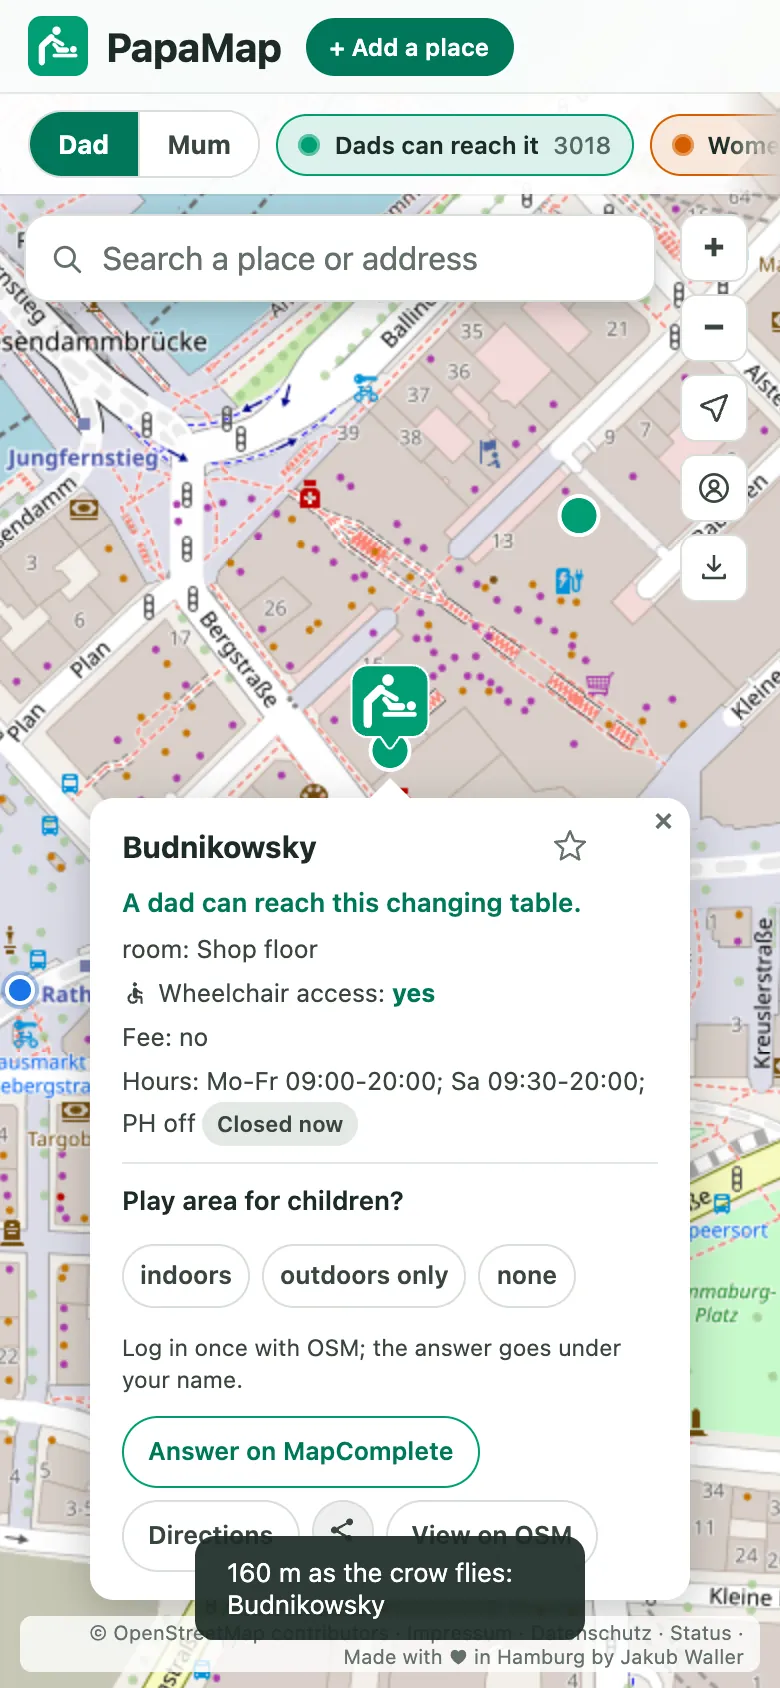
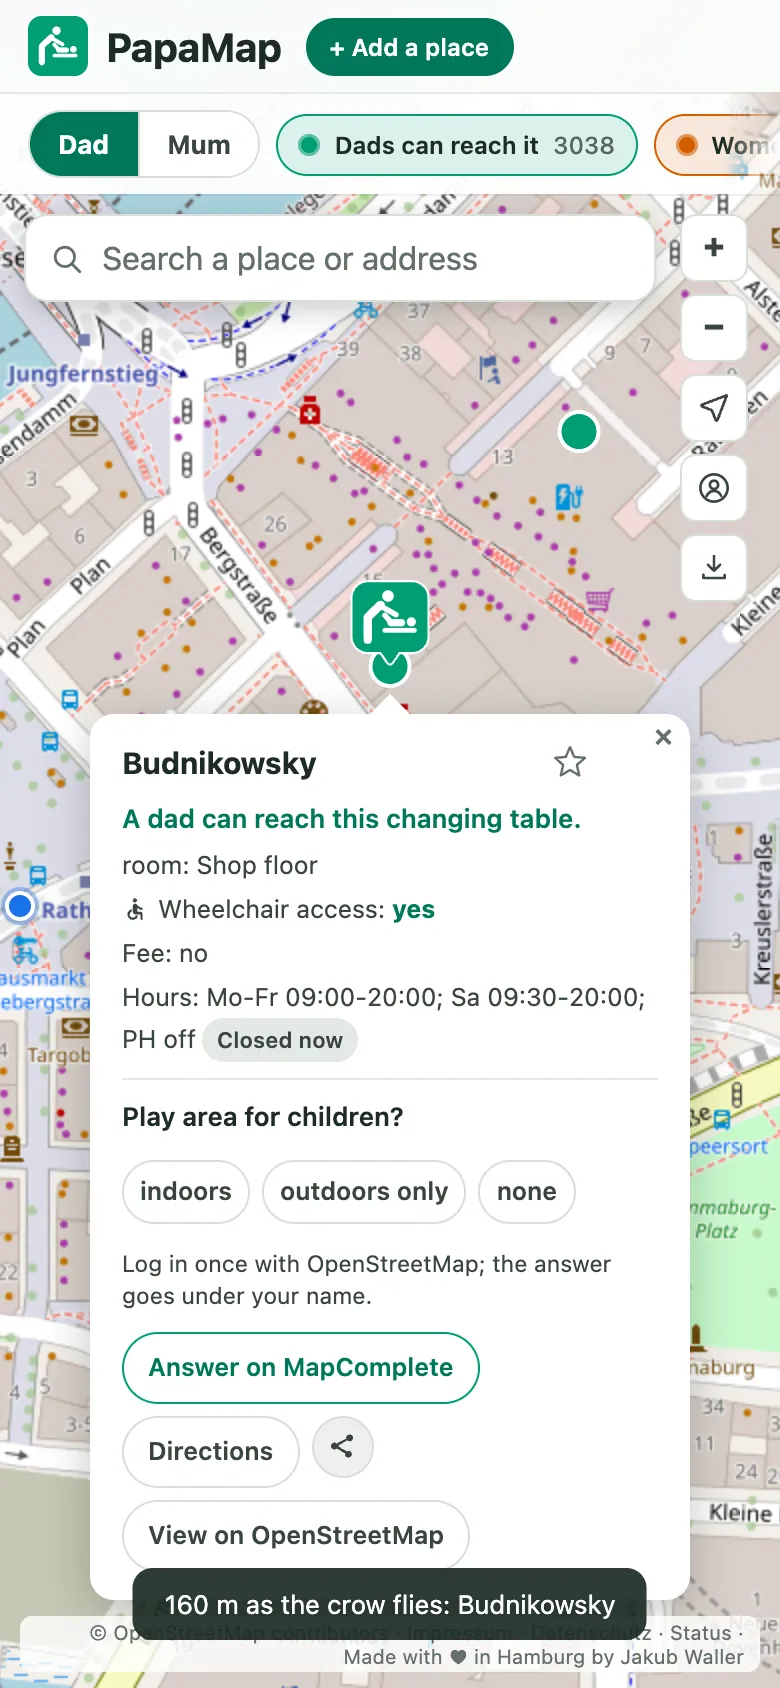
Install page images: reshot for 1.3.1 (#266)
* Install page images: reshot for 1.3.1 (darker buttons, OpenStreetMap written out, intro link)

Same six shots per language, reshot from main with
shoot-store-screenshots.mjs --canvas web, so the page shows the app the
1.3.1 store screenshots show.

* Store shot 6 on phones: the subline names high chairs

The phone and Play chip bar is too narrow to show the high-chair chip next
to wheelchair and play corner, and wheelchair stays the one shown, so the
subline says it instead: "High chairs too." / "Auch Hochstühle."

* English install page: the My PapaMap alt names Germany, as the shot shows

diff --git a/web/app-en.html b/web/app-en.html
@@ -329,7 +329,7 @@
     </ul>
   </div>
   <div class="media">
-    <img class="shot" src="img/app/me-en.webp" width="780" height="1688" loading="lazy" decoding="async" alt="“My PapaMap”: how many changing tables Hamburg has and how many have their room recorded, the OpenStreetMap login and the places you saved.">
+    <img class="shot" src="img/app/me-en.webp" width="780" height="1688" loading="lazy" decoding="async" alt="“My PapaMap”: how many changing tables Germany has and how many have their room recorded, the OpenStreetMap login and the places you saved.">
   </div>
 </article>
 </section>

diff --git a/docs/store-screenshots/DESIGN.md b/docs/store-screenshots/DESIGN.md
@@ -35,7 +35,7 @@ The first three show in search results, so map, nearest and the grey-pin questio
 | 3 | `03-room` | popup on a grey pin with the room question | Grauer Pin? Sag, in welchem *Raum* der Tisch ist | Die Antwort geht direkt nach OpenStreetMap. |
 | 4 | `04-route` | green pin's popup with the Route button visible, no dialog | *Route* zum Wickeltisch | Öffnet deine Navi-App: Apple Maps, Google Maps, Waze oder Organic Maps. |
 | 5 | `05-add` | "+ Ort hinzufügen" dialog at zoom 16, list of nearby places OSM already knows | Fehlenden *Ort* eintragen | Orte in deiner Nähe, die OpenStreetMap schon kennt. Antworte gleich in der App. |
-| 6 | `06-filters` | wheelchair chip on, chip bar scrolled to it; iPad shows wheelchair, play corner and high chair with labels, iPhone only wheelchair + play corner (labels hide below 640 px, the bar is too narrow) | iPad: *Hochstuhl*, Spielecke, Barrierefrei; iPhone (`phone` block in texts.json): *Barrierefrei*, Spielecke | iPad: Die Karte zeigt nur, was du brauchst.; iPhone: the same |
+| 6 | `06-filters` | wheelchair chip on, chip bar scrolled to it; iPad shows wheelchair, play corner and high chair with labels, iPhone only wheelchair + play corner (labels hide below 640 px, the bar is too narrow) | iPad: *Hochstuhl*, Spielecke, Barrierefrei; iPhone (`phone` block in texts.json): *Barrierefrei*, Spielecke | iPad: Die Karte zeigt nur, was du brauchst.; iPhone and Play: Auch Hochstühle. Die Karte zeigt nur, was du brauchst. (the bar hides the high chair, so the subline names it) |
 | 7 | `07-offline` | offline dialog open (the download button in the map controls) | Stadt *offline* speichern | Hamburg sind 27 MB. Dann geht die Karte auch ohne Netz. |
 | 8 | `08-me` | Mein PapaMap panel open | *Mein* PapaMap | Deine Antworten, gemerkte Orte, und wie viel in deiner Stadt schon beantwortet ist. |
 | 9 | `09-widget` | Jakub's phone: home screen with the PapaMap widget | Der nächste Tisch auf dem *Homescreen* | Widget für Home- und Sperrbildschirm. |
@@ -48,7 +48,7 @@ The first three show in search results, so map, nearest and the grey-pin questio
 | 3 | Grey pin? Say which *room* the table is in | Your answer goes straight to OpenStreetMap. |
 | 4 | *Route* to the table | Opens your navigation app: Apple Maps, Google Maps, Waze or Organic Maps. |
 | 5 | Add a missing *place* | Places nearby that OpenStreetMap already knows. Answer right in the app. |
-| 6 | iPad: *High chair*, play corner, accessible; phones (`phone`/`android` blocks): *Accessible*, play corner | The map shows only what you need. |
+| 6 | iPad: *High chair*, play corner, accessible; phones (`phone`/`android` blocks): *Accessible*, play corner | iPad: The map shows only what you need.; phones: High chairs too. The map shows only what you need. |
 | 7 | Save a city *offline* | Hamburg is 27 MB. The map then works without a connection. |
 | 8 | *My* PapaMap | Your answers, saved places, and how much of your city is answered already. |
 | 9 | The nearest table on your *home screen* | Widget for the home and lock screen. |
